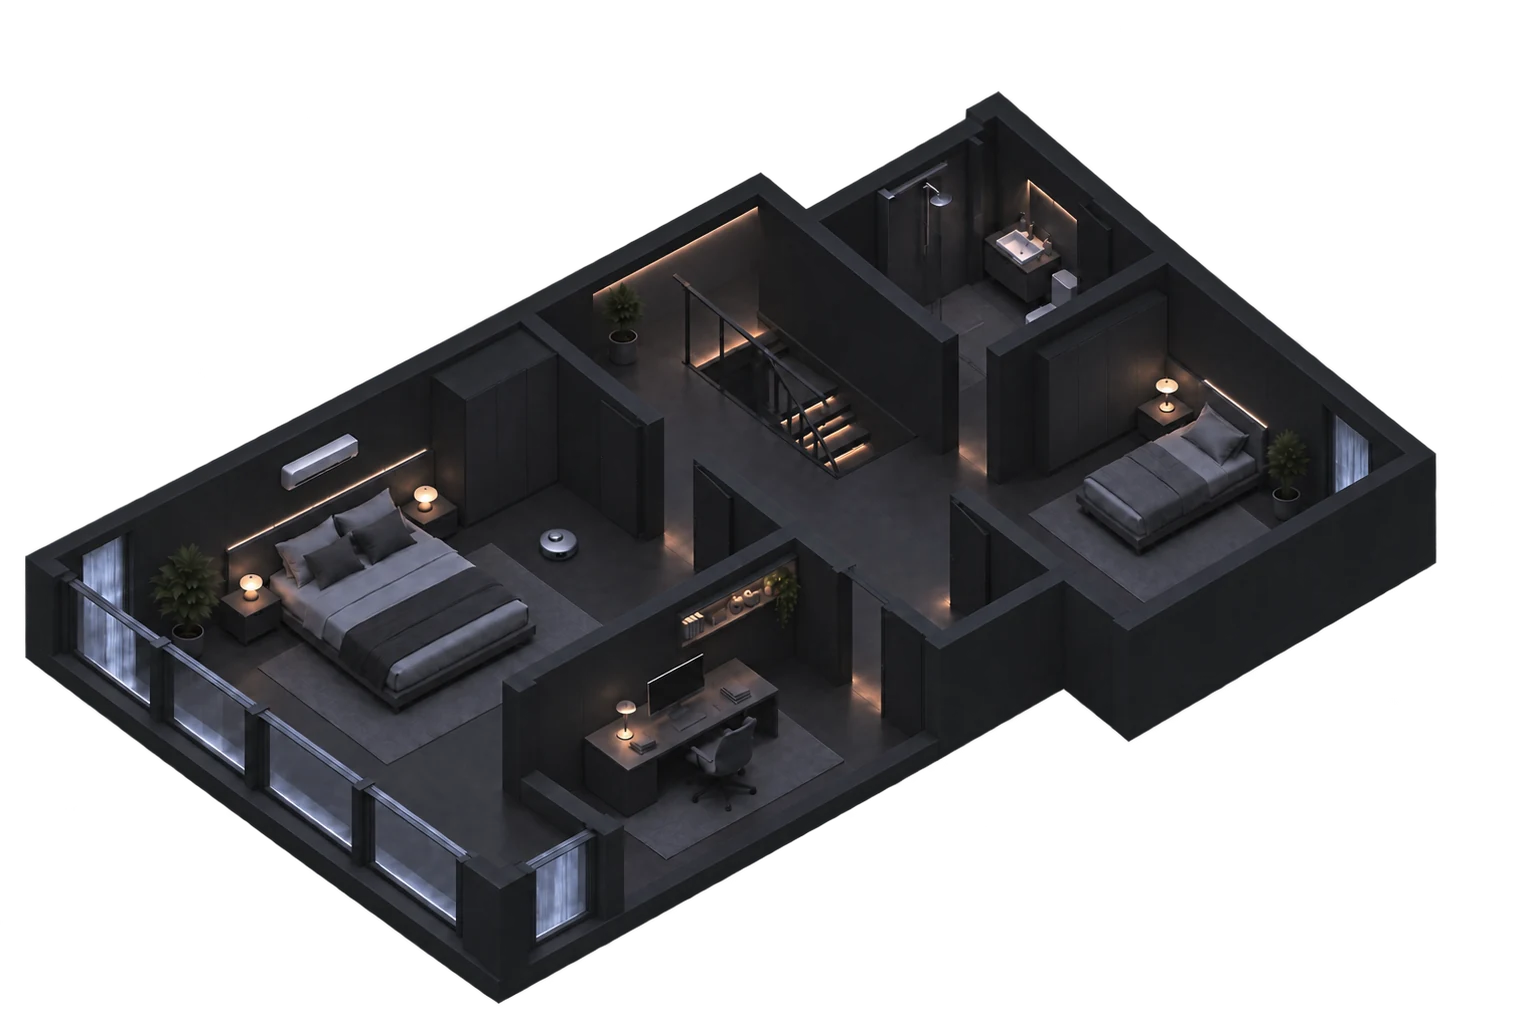
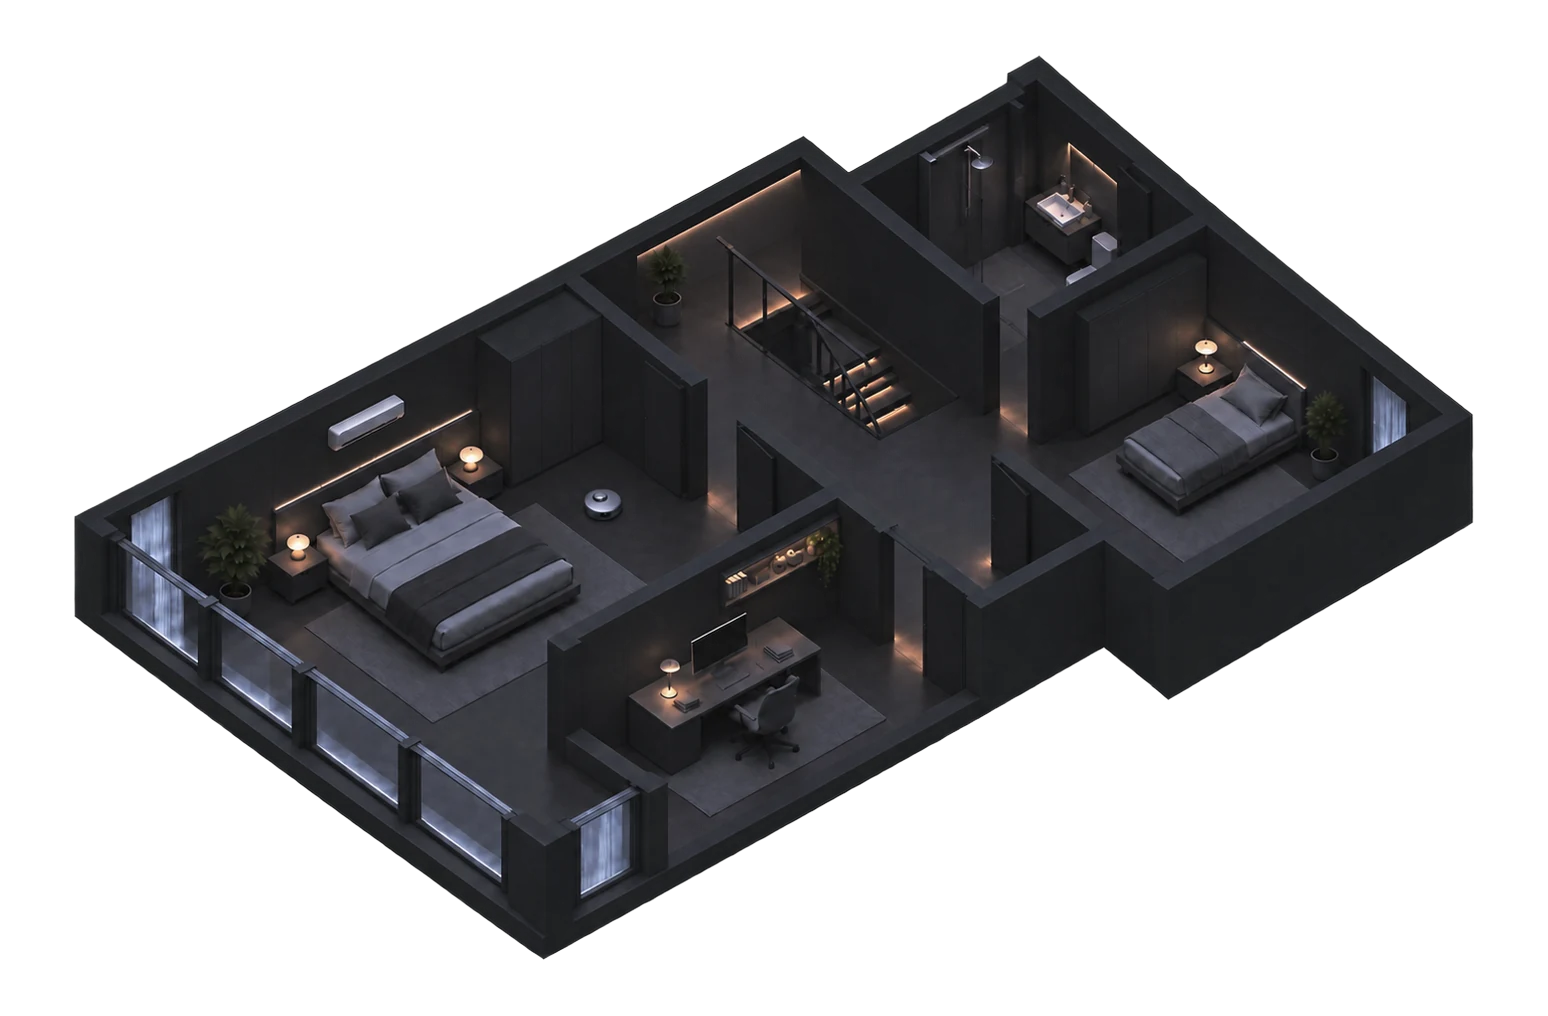
Wallpad: remove color-dodge, match 1F/2F plan sizes
Claude-Session: https://claude.ai/code/session_018mnowPvBHGDxwTwfuUijNo

Changed region(s): [[0.0, 0.061, 0.9523, 0.9764], [0.6451, 0.5797, 0.8908, 0.7323], [0.1229, 0.4272, 0.1536, 0.4577]]

diff --git a/wallpad/index.html b/wallpad/index.html
@@ -50,7 +50,7 @@
          transform:translate(-50%,-48%) translate(var(--px,0px),var(--py,0px)) scale(var(--z,1));transform-origin:center;background:var(--panel);
          transition:transform .55s var(--ease)}
   .viewport.dragging .world,.world.no-anim{transition:none}
-  .house{position:absolute;inset:0;width:100%;height:100%;object-fit:contain;mix-blend-mode:color-dodge;transition:filter .6s,opacity .5s;user-select:none;-webkit-user-drag:none}
+  .house{position:absolute;inset:0;width:100%;height:100%;object-fit:contain;transition:filter .6s,opacity .5s;user-select:none;-webkit-user-drag:none}
   .house2{opacity:0}
   .world.floor2 .house:not(.house2){opacity:0}
   .world.floor2 .house2{opacity:1}
@@ -301,14 +301,14 @@
 
   /* ---------- 기기 데이터 (좌표 = 집 이미지 기준 %) ---------- */
   const devices = [
-    { id:'fridge', name:'냉장고', x:31.2, y:44.8, kw:1.4, on:true,  today:'8.6 kWh', mode:'일반 냉장 3°C', w:[5,6,5,7,6,6,7,6,5,6,7,6] },
-    { id:'styler', name:'스타일러', x:70.1, y:45.3, kw:0.7, on:true,  today:'1.2 kWh', mode:'리프레시 코스', w:[0,0,1,3,7,8,6,2,0,0,0,0] },
-    { id:'washer', name:'세탁기', x:86.1, y:55.0, kw:1.7, on:true,  today:'2.4 kWh', mode:'표준 세탁 · 32분 남음', w:[0,0,0,2,6,9,9,8,4,1,0,0] },
-    { id:'ac',     name:'스탠드 에어컨', x:13.1, y:60.4, kw:1.9, on:false, today:'0 kWh',   mode:'꺼짐', w:[3,4,6,8,9,8,7,5,0,0,0,0] },
-    { id:'tv',     name:'TV',     x:19.5, y:54.5, kw:0.3, on:false, today:'0.6 kWh', mode:'꺼짐', w:[0,1,2,1,0,0,2,4,6,5,0,0] },
-    { id:'ac2',    name:'안방 에어컨', f:2, x:21.3, y:45.0, kw:1.2, on:false, today:'0 kWh', mode:'꺼짐', w:[2,3,5,7,8,7,6,4,0,0,0,0] },
-    { id:'robot',  name:'로봇청소기', f:2, x:36.7, y:53.3, kw:0.1, on:true, today:'0.3 kWh', mode:'거실·안방 청소 중', w:[0,0,0,3,6,4,0,0,0,0,0,0] },
-    { id:'pc',     name:'PC',     f:2, x:43.8, y:68.1, kw:0.4, on:true, today:'1.8 kWh', mode:'작업 중', w:[0,0,2,5,6,6,5,6,4,2,0,0] },
+    { id:'fridge', name:'냉장고', x:31.5, y:39.4, kw:1.4, on:true,  today:'8.6 kWh', mode:'일반 냉장 3°C', w:[5,6,5,7,6,6,7,6,5,6,7,6] },
+    { id:'styler', name:'스타일러', x:71.1, y:39.8, kw:0.7, on:true,  today:'1.2 kWh', mode:'리프레시 코스', w:[0,0,1,3,7,8,6,2,0,0,0,0] },
+    { id:'washer', name:'세탁기', x:87.4, y:49.8, kw:1.7, on:true,  today:'2.4 kWh', mode:'표준 세탁 · 32분 남음', w:[0,0,0,2,6,9,9,8,4,1,0,0] },
+    { id:'ac',     name:'스탠드 에어컨', x:13.1, y:55.2, kw:1.9, on:false, today:'0 kWh',   mode:'꺼짐', w:[3,4,6,8,9,8,7,5,0,0,0,0] },
+    { id:'tv',     name:'TV',     x:19.6, y:49.3, kw:0.3, on:false, today:'0.6 kWh', mode:'꺼짐', w:[0,1,2,1,0,0,2,4,6,5,0,0] },
+    { id:'ac2',    name:'안방 에어컨', f:2, x:23.5, y:42.2, kw:1.2, on:false, today:'0 kWh', mode:'꺼짐', w:[2,3,5,7,8,7,6,4,0,0,0,0] },
+    { id:'robot',  name:'로봇청소기', f:2, x:38.9, y:49.5, kw:0.1, on:true, today:'0.3 kWh', mode:'거실·안방 청소 중', w:[0,0,0,3,6,4,0,0,0,0,0,0] },
+    { id:'pc',     name:'PC',     f:2, x:46.0, y:64.4, kw:0.4, on:true, today:'1.8 kWh', mode:'작업 중', w:[0,0,2,5,6,6,5,6,4,2,0,0] },
   ];
 
   const spotsEl = $('#spots');
